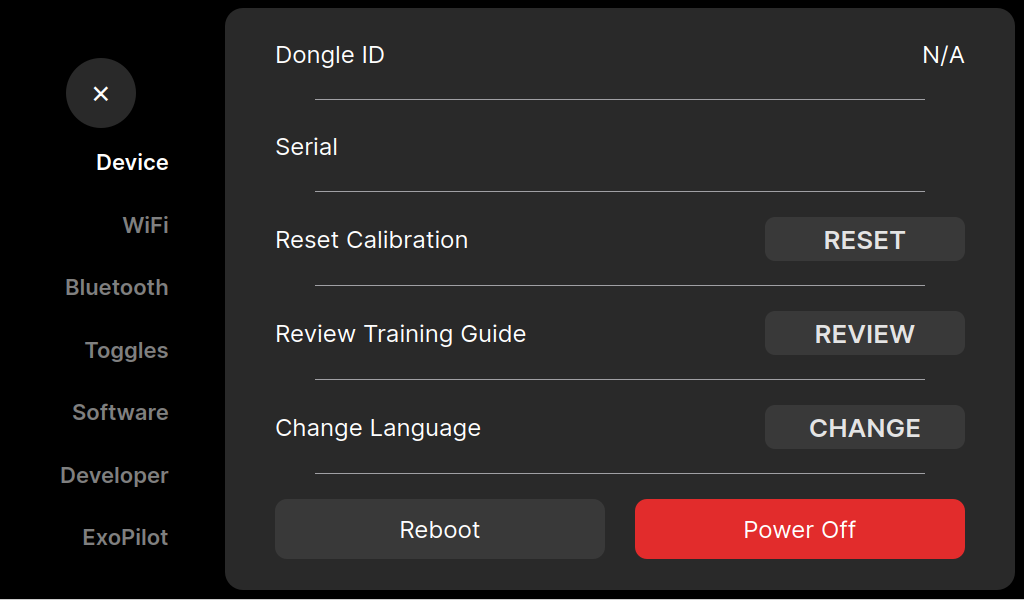
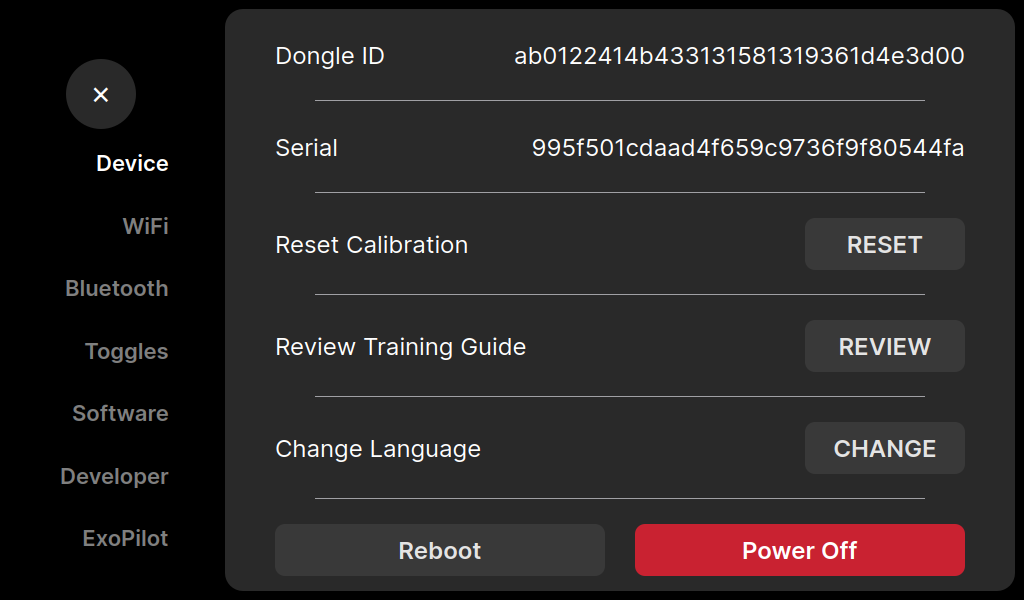
ui(01m): settings controls, one style per control kind (step 4.4)
theme::controlStyle() gives the five settings controls (primary,
secondary, danger, segmented, value) one height, radius and font, sized
by padding instead of fixed widths, so labels are no longer clipped.
ButtonControl, Reboot/Power Off, the WiFi buttons, MultiButtonControl
and the NGP spin boxes use it. Segmented choices sit on their own line
under the title: title plus three labels do not fit a 1024x600 row.

Checked on the board's display; shots in docs/eop/ui_design/01m/.
Tracker: 4.4 progress, owner's settings restructure (4.4b) and the
swipe-to-map request (4.9). moc sources and the ui binary ignored.

diff --git a/selfdrive/ui/qt/network/networking.cc b/selfdrive/ui/qt/network/networking.cc
@@ -4,6 +4,8 @@
 
 #include <QHBoxLayout>
 #include <QScrollBar>
+
+#include "selfdrive/ui/qt/theme.h"
 #include <QStyle>
 
 #include "selfdrive/ui/qt/qt_window.h"
@@ -28,11 +30,10 @@ Networking::Networking(QWidget* parent, bool show_advanced) : QFrame(parent) {
   if (show_advanced) {
     QPushButton* advancedSettings = new QPushButton(tr("Advanced"));
     advancedSettings->setObjectName("advanced_btn");
-    advancedSettings->setStyleSheet("margin-right: 30px;");
-    advancedSettings->setFixedSize(140, 40);
+    advancedSettings->setStyleSheet(theme::controlStyle(theme::Control::SECONDARY));
     connect(advancedSettings, &QPushButton::clicked, [=]() { main_layout->setCurrentWidget(an); });
     vlayout->addSpacing(10);
-    vlayout->addWidget(advancedSettings, 0, Qt::AlignRight);
+    vlayout->addWidget(advancedSettings, 0, Qt::AlignRight);  // sized by its text: 140x40 cut "Advanced"
     vlayout->addSpacing(10);
   }
 
@@ -60,7 +61,7 @@ Networking::Networking(QWidget* parent, bool show_advanced) : QFrame(parent) {
   setPalette(pal);
 
   setStyleSheet(R"(
-    #wifiWidget > QPushButton, #back_btn, #advanced_btn {
+    #wifiWidget > QPushButton {
       font-size: 30px;
       margin: 0px;
       padding: 15px;
@@ -69,7 +70,7 @@ Networking::Networking(QWidget* parent, bool show_advanced) : QFrame(parent) {
       color: #dddddd;
       background-color: #393939;
     }
-    #back_btn:pressed, #advanced_btn:pressed {
+    #wifiWidget > QPushButton:pressed {
       background-color:  #4a4a4a;
     }
   )");
@@ -130,7 +131,7 @@ AdvancedNetworking::AdvancedNetworking(QWidget* parent, WifiManager* wifi): QWid
   // Back button
   QPushButton* back = new QPushButton(tr("Back"));
   back->setObjectName("back_btn");
-  back->setFixedSize(140, 40);
+  back->setStyleSheet(theme::controlStyle(theme::Control::SECONDARY));
   connect(back, &QPushButton::clicked, [=]() { emit backPress(); });
   main_layout->addWidget(back, 0, Qt::AlignLeft);
 
@@ -296,20 +297,6 @@ WifiUI::WifiUI(QWidget *parent, WifiManager* wifi) : QWidget(parent), wifi(wifi)
       border-radius: 4px;
       background-color: #8A8A8A;
     }
-    #forgetBtn {
-      font-size: 32px;
-      font-weight: 600;
-      color: #292929;
-      background-color: #BDBDBD;
-      border-width: 1px solid #828282;
-      border-radius: 5px;
-      padding: 40px;
-      padding-bottom: 16px;
-      padding-top: 16px;
-    }
-    #forgetBtn:pressed {
-      background-color: #828282;
-    }
     #connecting {
       font-size: 32px;
       font-weight: 600;
@@ -393,6 +380,7 @@ WifiItem::WifiItem(const QString &connecting_text, const QString &forget_text, Q
   connecting->setObjectName("connecting");
   hlayout->addWidget(forgetBtn = new QPushButton(forget_text), 0, Qt::AlignRight);
   forgetBtn->setObjectName("forgetBtn");
+  forgetBtn->setStyleSheet(theme::controlStyle(theme::Control::SECONDARY));
   hlayout->addWidget(iconLabel = new QLabel(), 0, Qt::AlignRight);
   hlayout->addWidget(strengthLabel = new QLabel(), 0, Qt::AlignRight);
 

diff --git a/selfdrive/ui/qt/theme.cc b/selfdrive/ui/qt/theme.cc
@@ -30,6 +30,60 @@ const char *componentName(Component c) {
 
 }  // namespace
 
+QString controlStyle(Control kind) {
+  auto rgb = [](const QColor &c) { return c.name(QColor::HexRgb); };
+  auto argb = [](const QColor &c) { return c.name(QColor::HexArgb); };
+  const QString text_disabled = argb(QColor(CONTROL_TEXT.red(), CONTROL_TEXT.green(), CONTROL_TEXT.blue(), 0x55));
+
+  if (kind == Control::VALUE) {
+    return QString(R"(
+      QAbstractSpinBox {
+        min-height: %1px; max-height: %1px; min-width: 150px;
+        padding: 0 8px 0 16px;
+        border: none; border-radius: %2px;
+        font-size: %3px; font-weight: 500;
+        color: %4; background-color: %5;
+      }
+      QAbstractSpinBox:disabled { color: %6; }
+      QAbstractSpinBox::up-button, QAbstractSpinBox::down-button { width: 40px; }
+    )").arg(CONTROL_H).arg(CONTROL_RADIUS).arg(CONTROL_FONT_PX)
+       .arg(rgb(CONTROL_TEXT), rgb(CONTROL_BG), text_disabled);
+  }
+
+  QColor bg = CONTROL_BG, pressed = CONTROL_BG_PRESSED, fg = CONTROL_TEXT;
+  if (kind == Control::PRIMARY) {
+    bg = PRIMARY; pressed = PRIMARY.lighter(125); fg = WHITE;
+  } else if (kind == Control::DANGER) {
+    bg = DANGER; pressed = DANGER.lighter(120); fg = WHITE;
+  }
+
+  QString qss = QString(R"(
+    QPushButton {
+      min-height: %1px; max-height: %1px;
+      padding: 0 24px;
+      border: none; border-radius: %2px;
+      font-size: %3px; font-weight: 500;
+      color: %4; background-color: %5;
+    }
+    QPushButton:pressed { background-color: %6; }
+    QPushButton:disabled { color: %7; }
+  )").arg(CONTROL_H).arg(CONTROL_RADIUS).arg(CONTROL_FONT_PX)
+     .arg(rgb(fg), rgb(bg), rgb(pressed), text_disabled);
+
+  if (kind == Control::SEGMENTED) {
+    // The choices sit on their own line under the title (MultiButtonControl),
+    // so they keep the full control size.
+    QColor checked_off = PRIMARY;
+    checked_off.setAlpha(0x99);
+    qss += QString(R"(
+      QPushButton { padding: 0 16px; }
+      QPushButton:checked:enabled { color: %1; background-color: %2; }
+      QPushButton:checked:disabled { background-color: %3; }
+    )").arg(rgb(WHITE), rgb(PRIMARY), argb(checked_off));
+  }
+  return qss;
+}
+
 QString styleSheet(std::initializer_list<Component> components) {
   QStringList parts = {readSheet("base"), readSheet("dark_automotive")};
   for (Component c : components) {

diff --git a/selfdrive/ui/qt/widgets/controls.h b/selfdrive/ui/qt/widgets/controls.h
@@ -11,6 +11,7 @@
 #include <QPushButton>
 
 #include "common/params.h"
+#include "selfdrive/ui/qt/theme.h"
 #include "selfdrive/ui/qt/widgets/input.h"
 #include "selfdrive/ui/qt/widgets/toggle.h"
 
@@ -188,29 +189,15 @@ class MultiButtonControl : public AbstractControl {
 public:
   MultiButtonControl(const QString &title, const QString &desc, const QString &icon,
                      const std::vector<QString> &button_texts, const int minimum_button_width = 100) : AbstractControl(title, desc, icon) {
-    const QString style = R"(
-      QPushButton {
-        border-radius: 10px;
-        font-size: 18px;
-        font-weight: 500;
-        height: 44px;
-        padding: 0 10px;
-        color: #E4E4E4;
-        background-color: #393939;
-      }
-      QPushButton:pressed {
-        background-color: #4a4a4a;
-      }
-      QPushButton:checked:enabled {
-        background-color: #33Ab4C;
-      }
-      QPushButton:checked:disabled {
-        background-color: #9933Ab4C;
-      }
-      QPushButton:disabled {
-        color: #33E4E4E4;
-      }
-    )";
+    const QString style = theme::controlStyle(theme::Control::SEGMENTED);
+
+    // The choices get their own line under the title: title + three labels
+    // do not fit one 1024x600 settings row without clipping. Indented to
+    // line up with the title when the row has an icon.
+    QHBoxLayout *choices = new QHBoxLayout;
+    choices->setContentsMargins(icon.isEmpty() ? 0 : 80 + hlayout->spacing(), 8, 0, 0);
+    choices->setSpacing(12);
+    qobject_cast<QVBoxLayout *>(layout())->insertLayout(1, choices);
 
     button_group = new QButtonGroup(this);
     button_group->setExclusive(true);
@@ -220,7 +207,7 @@ public:
       button->setChecked(i == 0);
       button->setStyleSheet(style);
       button->setMinimumWidth(minimum_button_width);
-      hlayout->addWidget(button);
+      choices->addWidget(button, 1);
       button_group->addButton(button, i);
     }
 

diff --git a/selfdrive/ui/qt/theme.h b/selfdrive/ui/qt/theme.h
@@ -71,6 +71,31 @@ inline QFont inter(int pixel_size, QFont::Weight weight = QFont::Normal) {
   return f;
 }
 
+// ---- settings controls -----------------------------------------------------
+// The five control styles every settings page uses (step 4.4): one primary,
+// one secondary and one danger action button, one segmented choice and one
+// value stepper. Sizes follow the text (padding, no fixed width) so a longer
+// label or translation is never clipped.
+constexpr int CONTROL_H = 52;
+constexpr int CONTROL_RADIUS = 10;
+constexpr int CONTROL_FONT_PX = 24;
+
+inline const QColor CONTROL_BG{0x39, 0x39, 0x39};          // on the #292929 panel
+inline const QColor CONTROL_BG_PRESSED{0x4a, 0x4a, 0x4a};
+inline const QColor CONTROL_TEXT{0xe4, 0xe4, 0xe4};
+
+enum class Control {
+  PRIMARY,    // the one action a page is for (Connect, Install)
+  SECONDARY,  // every other action (Review, Change, Reboot, Forget, Advanced)
+  DANGER,     // cannot be undone or turns the device off (Power Off, Uninstall)
+  SEGMENTED,  // one of a few exclusive choices (checkable QPushButtons)
+  VALUE,      // QSpinBox / QDoubleSpinBox
+};
+
+// QSS for one control. PRIMARY..SEGMENTED style QPushButton, VALUE styles
+// QAbstractSpinBox; set it on the control itself.
+QString controlStyle(Control kind);
+
 // ---- QSS layers ------------------------------------------------------------
 // base, then the theme, then the per-view sheets, read from the :/qss/ resource.
 // Applied per screen as it is ported (Phase 4), not app-wide: the theme's

diff --git a/selfdrive/ui/qt/widgets/controls.cc b/selfdrive/ui/qt/widgets/controls.cc
@@ -1,5 +1,7 @@
 #include "selfdrive/ui/qt/widgets/controls.h"
 
+#include "selfdrive/ui/qt/theme.h"
+
 #include <QPainter>
 #include <QStyleOption>
 
@@ -67,23 +69,8 @@ void AbstractControl::hideEvent(QHideEvent *e) {
 
 ButtonControl::ButtonControl(const QString &title, const QString &text, const QString &desc, QWidget *parent) : AbstractControl(title, desc, "", parent) {
   btn.setText(text);
-  btn.setStyleSheet(R"(
-    QPushButton {
-      padding: 0 8px;
-      border-radius: 10px;
-      font-size: 26px;
-      font-weight: 500;
-      color: #E4E4E4;
-      background-color: #393939;
-    }
-    QPushButton:pressed {
-      background-color: #4a4a4a;
-    }
-    QPushButton:disabled {
-      color: #33E4E4E4;
-    }
-  )");
-  btn.setFixedSize(200, 44);
+  btn.setStyleSheet(theme::controlStyle(theme::Control::SECONDARY));
+  btn.setMinimumWidth(160);  // short labels line up; longer ones grow
   QObject::connect(&btn, &QPushButton::clicked, this, &ButtonControl::clicked);
   hlayout->addWidget(&btn);
 }

diff --git a/selfdrive/ui/qt/offroad/settings.cc b/selfdrive/ui/qt/offroad/settings.cc
@@ -10,6 +10,7 @@
 #include "common/util.h"
 #include "selfdrive/ui/qt/network/networking.h"
 #include "selfdrive/ui/qt/offroad/settings.h"
+#include "selfdrive/ui/qt/theme.h"
 #include "selfdrive/ui/qt/qt_window.h"
 #include "selfdrive/ui/qt/widgets/scrollview.h"
 #include "selfdrive/ui/qt/offroad/developer_panel.h"
@@ -255,12 +256,8 @@ DevicePanel::DevicePanel(SettingsWindow *parent) : ListWidget(parent) {
     connect(uiState(), &UIState::offroadTransition, poweroff_btn, &QPushButton::setVisible);
   }
 
-  setStyleSheet(R"(
-    #reboot_btn { height: 60px; border-radius: 12px; background-color: #393939; }
-    #reboot_btn:pressed { background-color: #4a4a4a; }
-    #poweroff_btn { height: 60px; border-radius: 12px; background-color: #E22C2C; }
-    #poweroff_btn:pressed { background-color: #FF2424; }
-  )");
+  reboot_btn->setStyleSheet(theme::controlStyle(theme::Control::SECONDARY));
+  poweroff_btn->setStyleSheet(theme::controlStyle(theme::Control::DANGER));
   addItem(power_layout);
 }
 

diff --git a/selfdrive/ui/qt/offroad/ngp_controls.h b/selfdrive/ui/qt/offroad/ngp_controls.h
@@ -25,15 +25,7 @@ public:
     spin->setSuffix(suffix);
     spin->setSpecialValueText(placeholder);
     spin->setAlignment(Qt::AlignRight);
-    spin->setStyleSheet(R"(
-      QSpinBox {
-        background-color: #393939;
-        border-radius: 10px;
-        padding: 5px 15px;
-        font-size: 32px;
-        color: #E4E4E4;
-      }
-    )");
+    spin->setStyleSheet(theme::controlStyle(theme::Control::VALUE));
     hlayout->addWidget(spin);
 
     default_val = default_value;
@@ -77,15 +69,7 @@ public:
     spin->setDecimals(1);
     spin->setSpecialValueText(placeholder);
     spin->setAlignment(Qt::AlignRight);
-    spin->setStyleSheet(R"(
-      QDoubleSpinBox {
-        background-color: #393939;
-        border-radius: 10px;
-        padding: 5px 15px;
-        font-size: 32px;
-        color: #E4E4E4;
-      }
-    )");
+    spin->setStyleSheet(theme::controlStyle(theme::Control::VALUE));
     hlayout->addWidget(spin);
 
     default_val = default_value;

diff --git a/docs/eop/REFACTOR_CLEANUP_TASKS.md b/docs/eop/REFACTOR_CLEANUP_TASKS.md
@@ -96,12 +96,27 @@ Order: what the driver sees first, the new screens last. Each step must build (`
   - **Clipping/overflow:** WiFi "Advanced" button cut at the top right; Bluetooth empty-state text runs off the right edge; Driver Attention description truncated.
   - **ExoPilot panel is one ~40-row list (11 screens of scroll)** with two kinds of header: real section headers (DRIVING, ASSISTANCE, DISPLAY, DEVICE) and plain rows used as sub-headers (Lateral Control, Speed Control, Safety, UI, Recording, Device), plus indentation faked with a full-width space (ALCC Brake Behaviour, BLE Navigation App). One dropdown style (SAM) appears nowhere else.
   - **Categories overlap:** "Device" is a nav page and a section inside ExoPilot; lane change is split (LCA speed, Auto Lane Change, delay, one-change-only, and a separate "Lane Change Assistant (LCA)" toggle); BLE Navigation App sits under speed control.
+  - **Done 2026-11-11: one style per control kind.** `theme::controlStyle(Control::PRIMARY|SECONDARY|DANGER|SEGMENTED|VALUE)` (52 px high, radius 10, 24 px text, sized by padding, no fixed widths). Moved over: `ButtonControl` (RESET/REVIEW/CHANGE, Software CHECK/SELECT/UNINSTALL), Reboot (secondary) / Power Off (danger), WiFi Advanced/Back/FORGET, `MultiButtonControl`/`ButtonParamControl` (segmented, checked = `PRIMARY`, was green), NGP spin boxes (value). Segmented choices now sit on their own line under the title: title + three labels do not fit one row (tried 20 px text and label-width minimums; the row still overflowed the panel on Toggles and ExoPilot). Built and checked on :0: `docs/eop/ui_design/01m/settings_{device,wifi,toggles,software,exopilot}.png`; "Advanced", "Maintain", "Disengage", "Aggressive" no longer clipped. Still open here: Bluetooth empty-state overflow, Driver Attention description, the tab bar and params registry.
   - **Proposed tabs** (top tab bar, PyQt5 design): Driving (steering & lane change; speed control), Safety (BSD, SAM, driver attention, LDW, rear camera), Display, Connectivity (Wi-Fi, Bluetooth, BLE nav app), Device (calibration, recording, power, language), System (software, developer). Toggles with icons all the same size.
+- [ ] 4.4b Settings restructure (owner, 2026-11-11). Requests:
+  - **No Software page:** the branch is fixed per product, so no branch select / uninstall. Software update becomes one **Update** button on Device. **Offline map download** (regions, size, progress; like sunnypilot's OSM downloader) also goes on Device.
+  - **No Developer page:** nothing is published for SSH/ADB. Its rows (ADB, Joystick Debug, Longitudinal Maneuver, Longitudinal Control Alpha) leave the UI; any that must stay settable move to a param/CLI. (Owner: "combine them into" was not finished. Assumed: the useful rows go into Toggles.)
+  - **No Experimental mode anywhere** (Toggles row, home "Experimental mode" card, onroad experimental icon, `ExperimentalMode` param use in selfdrived). We trust DLAT/DLON. The **only longitudinal choice is Drive Mode: Highway (Rule) / Urban (AI) / Dynamic**: new param (e.g. `EOPDriveMode` 0/1/2) mapped to `DLONMode.CHILL / EXPERIMENTAL / AUTO`. Today `dlon.update_params()` forces AUTO. That followed NGP10's "no user-selectable mode"; the owner now overrides it for EOP.
+  - **Old names:** "EnhancedOpenPilot" still on the offroad home card (`drive_stats`/`prime`); "nagaspilot" / "Enhanced OpenPilot" strings remain in the C++ and PyQt5 sources. One name: ExoPilot.
+  - **Recheck every control and how it looks** after the move: every row toggles/saves its param, every button does what it says. Also the **built-in keyboard** (WiFi password, SSID, any text entry).
+  - **Proposed order** (left nav, top to bottom; groups by what the driver is trying to do, no topic in two places):
+    1. **Device**: identity (dongle/serial), vehicle platform/type, RHD, calibration (front + side/rear, factory status, reset), language, **Update**, **Offline maps** (download regions, auto-download, WiFi-only), recording, auto shutdown, reboot/power off.
+    2. **Network**: Wi-Fi + Bluetooth on one page (BLE nav app pairing here, not under speed control).
+    3. **Driving**: Enable ExoPilot; **Drive Mode** (Highway/Urban/Dynamic); Driving Personality. *Steering & lane change*: ALCC (+ without cruise, hold at standstill, brake behaviour), curve assist, road-edge detection, lane change (LCA toggle + speed, auto lane change, delay, min lane width, one change only), fixed steer ratio. *Speed*: VTSC, MTSC, MSLC, TLSC, TJA, BRSC, curve speed limit, external radar.
+    4. **Safety**: AEB, BSD + chime, SAM, driver attention, lane departure warnings, RCD, alert sound / warning beep, rear camera.
+    5. **Display**: UI display mode, hide HUD above speed, radar tracks, rainbow path, BEV, metric units.
+    6. **Advanced** (folded at the bottom, or behind a long-press): perception and camera tier (stereo, helpers, swap, gridd, hailo/MonoD, scene segmentation, wide/tele cameras, YOLO thresholds), localisation (RTK/NTRIP, global localisation, SGM), surface-quality mapping, point-cloud recording, CAT. **Owner 2026-11-11: hidden unlock**: the Advanced page appears only after an unlock gesture (e.g. 7 taps on the version row). **Developer rows go here** too: Longitudinal Control stays settable; ADB, joystick and maneuver mode leave the UI.
+  - Section headers one style; no fake sub-headers or full-width-space indents; the SAM dropdown becomes a segmented control.
 - [ ] 4.5 EOP panel, onboarding
 - [ ] 4.6 Onroad restyle: HUD, alerts, chrome bar, warnings
 - [ ] 4.7 Side/rear overlays, blind spot, BEV
 - [ ] 4.8 Navigation view
-- [ ] 4.9 Map panel + OSM tiles
+- [ ] 4.9 Map panel + OSM tiles. **Owner 2026-11-11: onroad, swipe up/down switches between the driving view and a full navigation map.** Offline: Valhalla routing (`selfdrive/navd`, built with `scons --with-valhalla`, tiles under `/data/media/0/valhalla/`) and map drawing without internet. The PyQt5 `osm_tiles.py` fetched raster tiles from `tile.openstreetmap.org`, which is online-only and against OSM's tile policy for an app. Offline drawing needs local vector tiles (e.g. an MBTiles/PMTiles extract per region, drawn in Qt) or pre-rendered raster MBTiles. **Owner 2026-11-11: vector tiles drawn in Qt** (per-region extract, our own dark style). Neither Valhalla nor a map renderer is installed on the board yet (2026-11-11). Note `hud.h`: "full map/route stays on the phone" was the earlier decision; this replaces it.
 - [ ] 4.10 DVR browser/player
 - [ ] 4.11 Voice panel + popup
 - [ ] 4.12 UI tests: port `selfdrive/ui/tests` that test behaviour (not PyQt5 widgets) to the C++ UI's test harness
@@ -142,4 +157,6 @@ Order: what the driver sees first, the new screens last. Each step must build (`
 | 2026-11-10 | R.1, R.2 | folder -> `exopilot/`: NGP10 pushed; EOP10/01M/02M rebased, trees verified |
 | 2026-11-10 | R.3-R.5 | R.3/R.4 ticked; stale package link fixed on EOP10/01M/02M |
 | 2026-11-11 | R.6 | one name ExoPilot on NGP10/EOP10/01M/02M/EDP10; proper rebase chain, duplicates dropped |
+| 2026-11-11 | 4.4 | settings controls: five theme styles, segmented choices on their own line; built and checked on :0 |
+| 2026-11-11 | 4.4b, 4.9 | owner requests recorded: no Software/Developer pages, Update + offline maps on Device, no Experimental mode (Drive Mode Highway/Urban/Dynamic), old names, keyboard check; proposed nav order; swipe map view |
 | 2026-11-09 | 4.1, 4.2 | 4.1 done (no app-wide sheet: it boxed every label); 4.2 sidebar palette + BLE pairing key bug; built and checked on :0 |
